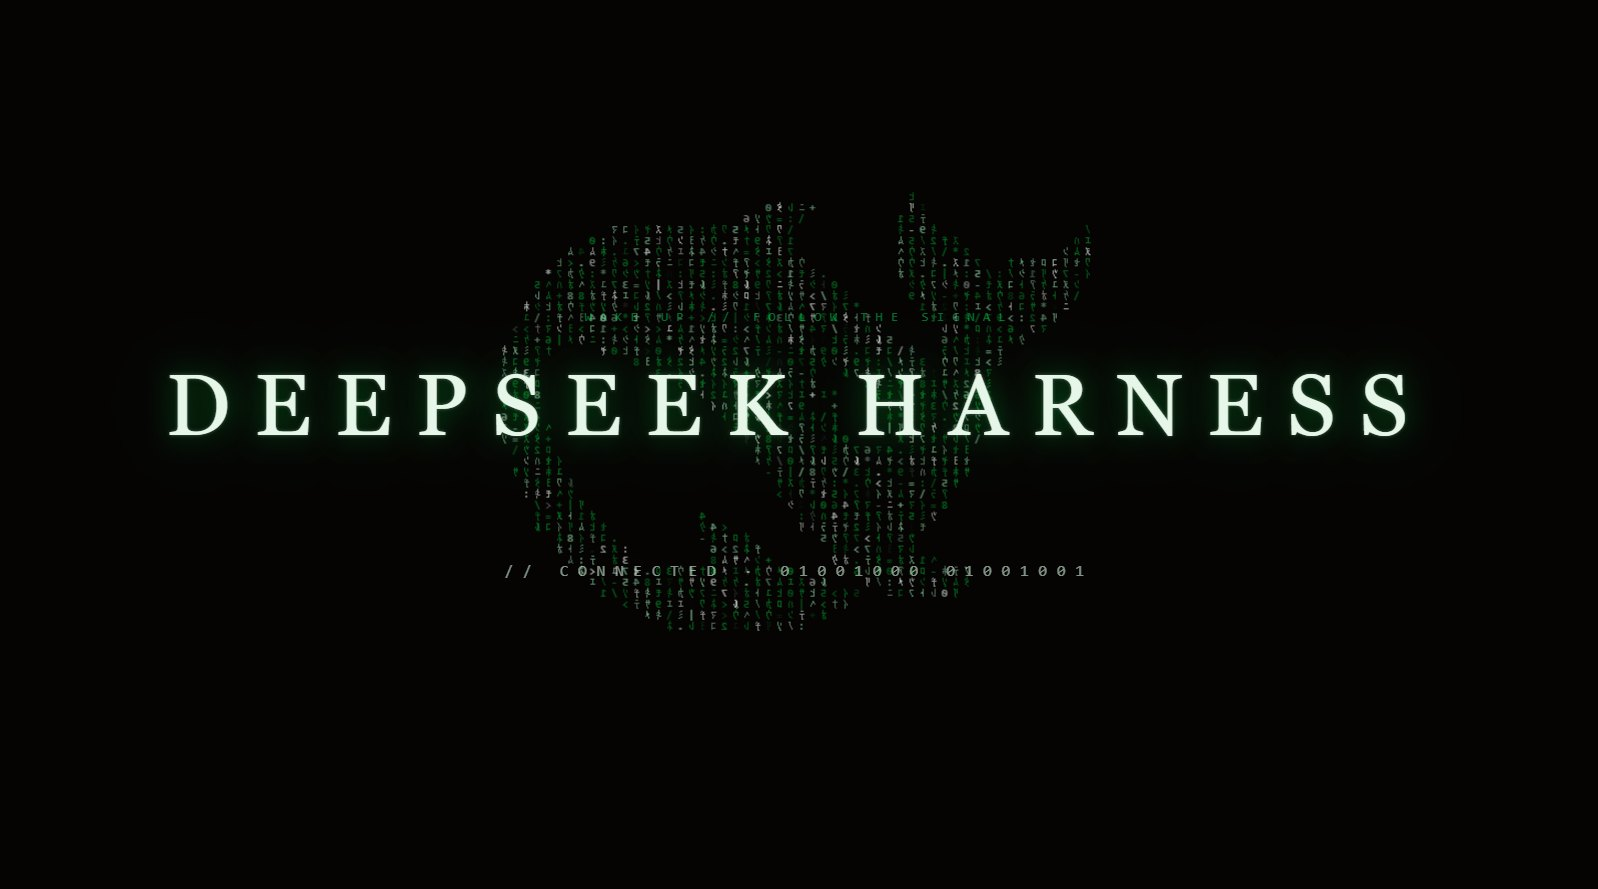
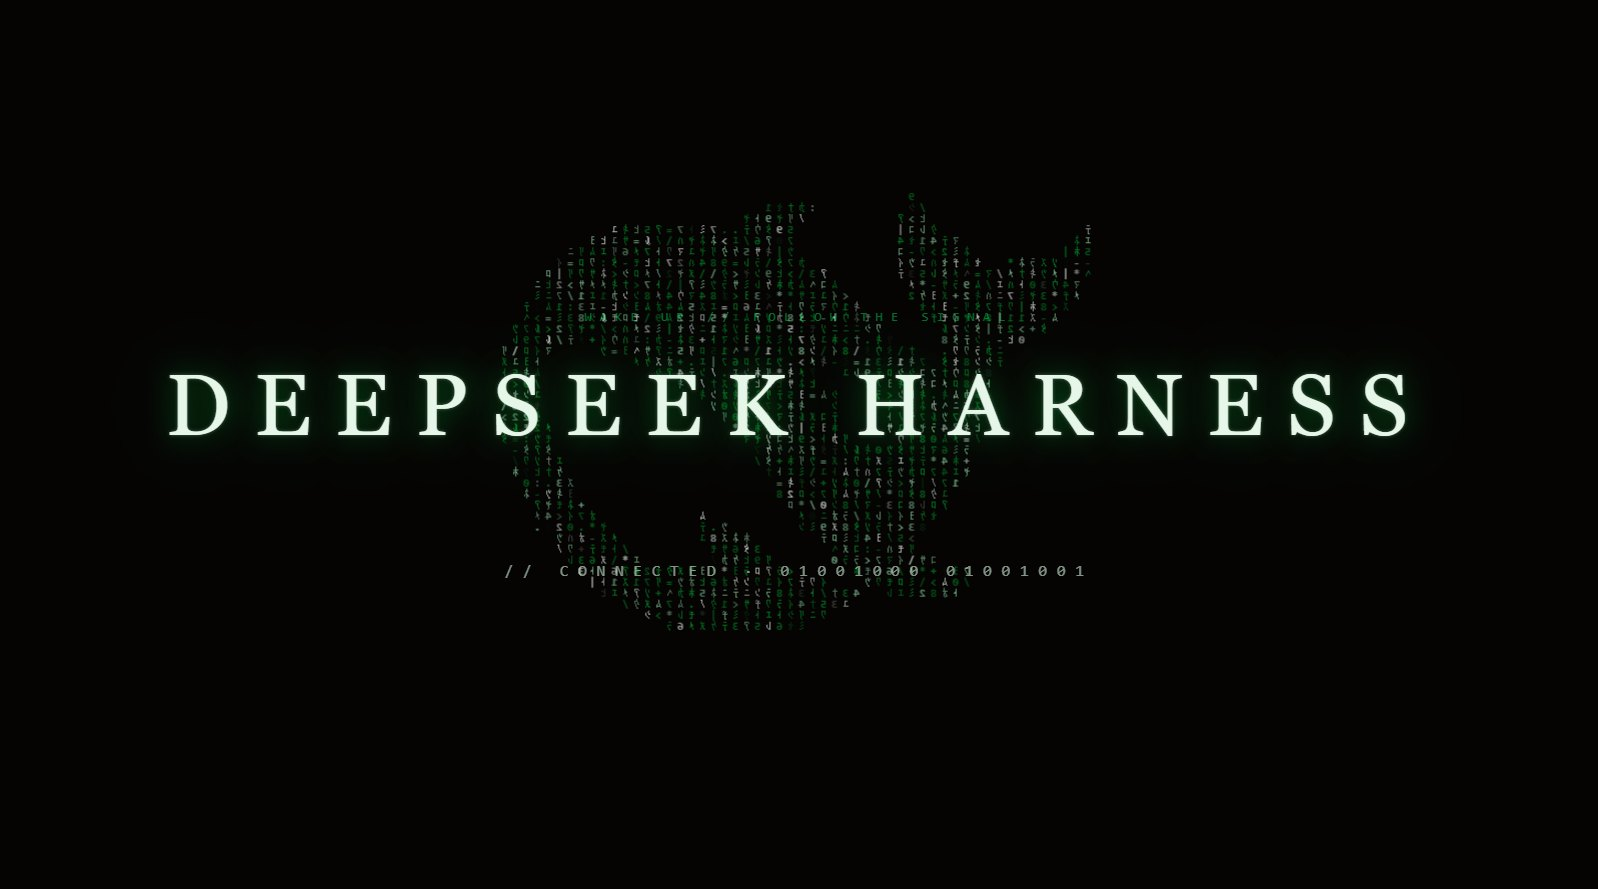
feat(matrix): 收尾改为朝镜头冲出 + 随机四散

Changed region(s): [[0.3066, 0.243, 0.6746, 0.7289]]

diff --git a/splashes/matrix/index.html b/splashes/matrix/index.html
@@ -152,15 +152,24 @@
                 0 0 60px rgba(0,255,72,.18);
     transition:opacity .3s ease;
   }
-  /* 收尾: 逐字飘散 —— 每个字符一个 span, 各自带一份随机位移/旋转/模糊 */
-  #title span{
-    display:inline-block;white-space:pre;
-    transition:transform 2.3s cubic-bezier(.22,.68,.16,1),
-               opacity 2.1s ease,filter 2.3s ease;
-  }
+  /* 收尾: 逐字"迎面飞过镜头" —— 放大 + 动态模糊 + 轻微向外位移, 而不是四散 */
+  #title span{ display:inline-block;white-space:pre; }
   #title.fly span{
-    transform:translate3d(var(--dx),var(--dy),0) rotate(var(--rot)) scale(var(--sc,1));
-    opacity:0;filter:blur(var(--bl,2px));
+    animation:flyAway var(--fly-dur,1.9s) cubic-bezier(.3,.55,.2,1) both;
+    animation-delay:var(--del,0ms);
+  }
+  @keyframes flyAway{
+    /* 前段保持清晰、只放大(冲过来), 后段才糊掉并淡出(擦身而过) */
+    0%{
+      transform:translate3d(0,0,0) scale(1) rotate(0deg);
+      opacity:1;filter:blur(0);
+    }
+    38%{ opacity:.98; filter:blur(.6px); }
+    72%{ opacity:.6; }
+    100%{
+      transform:translate3d(var(--dx),var(--dy),0) scale(var(--sc)) rotate(var(--rot));
+      opacity:0;filter:blur(var(--bl));
+    }
   }
   #title.glitch{animation:titleGlitch 2.6s steps(1) infinite;}
   @keyframes titleGlitch{
@@ -653,15 +662,27 @@ function scatterTitle(el, box){
   el.appendChild(frag);
 
   const spans = el.querySelectorAll("span");
+  const mid = el.offsetWidth / 2;
   spans.forEach((s, i) => {
-    const dir = Math.random() < 0.5 ? -1 : 1;
-    s.style.setProperty("--dx", (dir * (7 + Math.random() * 34)).toFixed(1) + "vw");
-    s.style.setProperty("--dy", (-5 - Math.random() * 30).toFixed(1) + "vh");
-    s.style.setProperty("--rot", (dir * (14 + Math.random() * 60)).toFixed(0) + "deg");
-    s.style.setProperty("--sc", (0.6 + Math.random() * 0.9).toFixed(2));
-    s.style.setProperty("--bl", (1 + Math.random() * 4).toFixed(1) + "px");
-    s.style.transitionDelay = Math.round((i * 42 + Math.random() * 90) / SPEED) + "ms";
+    /* 从标题中心往外的方向: 只给一点横向位移, 主要靠 scale 制造"冲过来" */
+    const cx = s.offsetLeft + s.offsetWidth / 2;
+    const nx = mid > 0 ? (cx - mid) / mid : 0;          /* -1 ~ 1 */
+    const away = Math.abs(nx);
+
+    /* 放大 = 朝观众冲过来; 位移带随机方向 = 不要挤成一团地四散开 */
+    const ang = Math.random() * Math.PI * 2;
+    const dist = 7 + Math.random() * 20;                 /* vw/vh 量级 */
+    s.style.setProperty("--dx", (nx * 5 + Math.cos(ang) * dist).toFixed(1) + "vw");
+    s.style.setProperty("--dy", (Math.sin(ang) * dist * 0.72).toFixed(1) + "vh");
+    s.style.setProperty("--sc", (2.0 + Math.random() * 1.1).toFixed(2));
+    s.style.setProperty("--rot", ((Math.random() - 0.5) * 36).toFixed(0) + "deg");
+    s.style.setProperty("--bl", (6 + Math.random() * 7).toFixed(1) + "px");
+    /* 中间的字母先冲出来, 两侧依次跟上; 再加一点随机抖动, 避免整排同步 */
+    s.style.setProperty("--del", Math.round((away * 460 + Math.random() * 260) / SPEED) + "ms");
   });
+
+  /* 动画时长也跟着 ?speed 走 */
+  el.style.setProperty("--fly-dur", Math.round(1900 / SPEED) + "ms");
 
   /* 先强制一次样式/布局, 让每个 span 的初始状态真正上屏;
      否则同一帧里再加 .fly 会因为没有"起始值"而直接瞬移(看不见飞的过程) */
@@ -713,8 +734,8 @@ const T = {
   scramble: 1000,      /* 标题乱码收敛 */
   cardHold: 2200,      /* 标题卡停留 */
   cardHoldFast: 1200,
-  scatter: 2250,       /* 飘散到基本散尽 */
-  scatterFast: 1350
+  scatter: 2450,       /* 逐字冲出镜头, 到基本散尽 */
+  scatterFast: 1550
 };
 
 async function playMatrix(){
